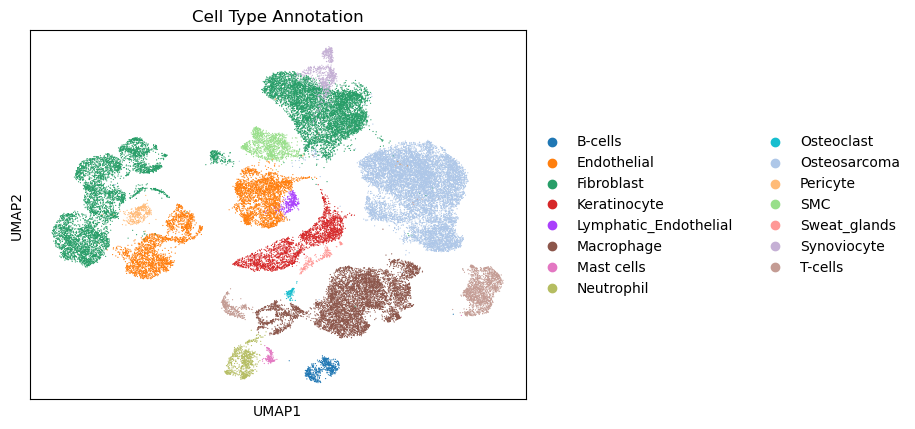
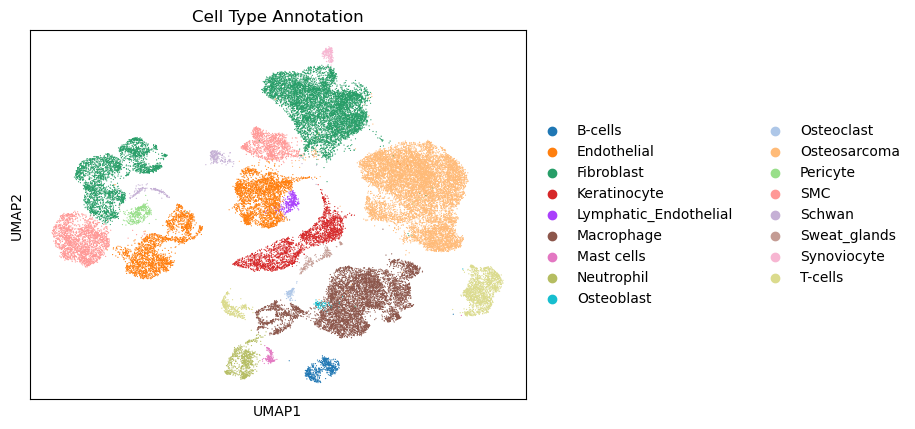
correct annotations and subset accordingly

diff --git a/README.md b/README.md
@@ -413,9 +413,9 @@ From the dotplot, cluster 5 doesn't seem to be higlhy expressed in 2 distinct pr
 
 ### Preliminary Annotations 
 
-![](figures/umap_combined_celltypeON.png?v=8) 
+![](figures/umap_combined_celltypeON.png?v=9) 
 
-![](figures/umap_combined_celltype.png?v=8)
+![](figures/umap_combined_celltype.png?v=9)
 
 ### Now lets subset Fibroblast from GSE135985 and Osteosarcoma from AXT 
 
@@ -423,8 +423,7 @@ From the dotplot, cluster 5 doesn't seem to be higlhy expressed in 2 distinct pr
 
 | celltype      | NonReg_14DPA | Reg  | Reg_14DPA | Uninjured1 | Uninjured2 | nonReg |
 |----------------|--------------|------|------------|-------------|-------------|---------|
-| Fibroblast     | 634          | 0    | 433        | 1564        | 2521        | 0       |
+| Fibroblast     | 590          | 0    | 380        | 1057        | 873         | 0       |
 | Osteosarcoma   | 0            | 1116 | 0          | 0           | 0           | 9075    |
-
 
 
